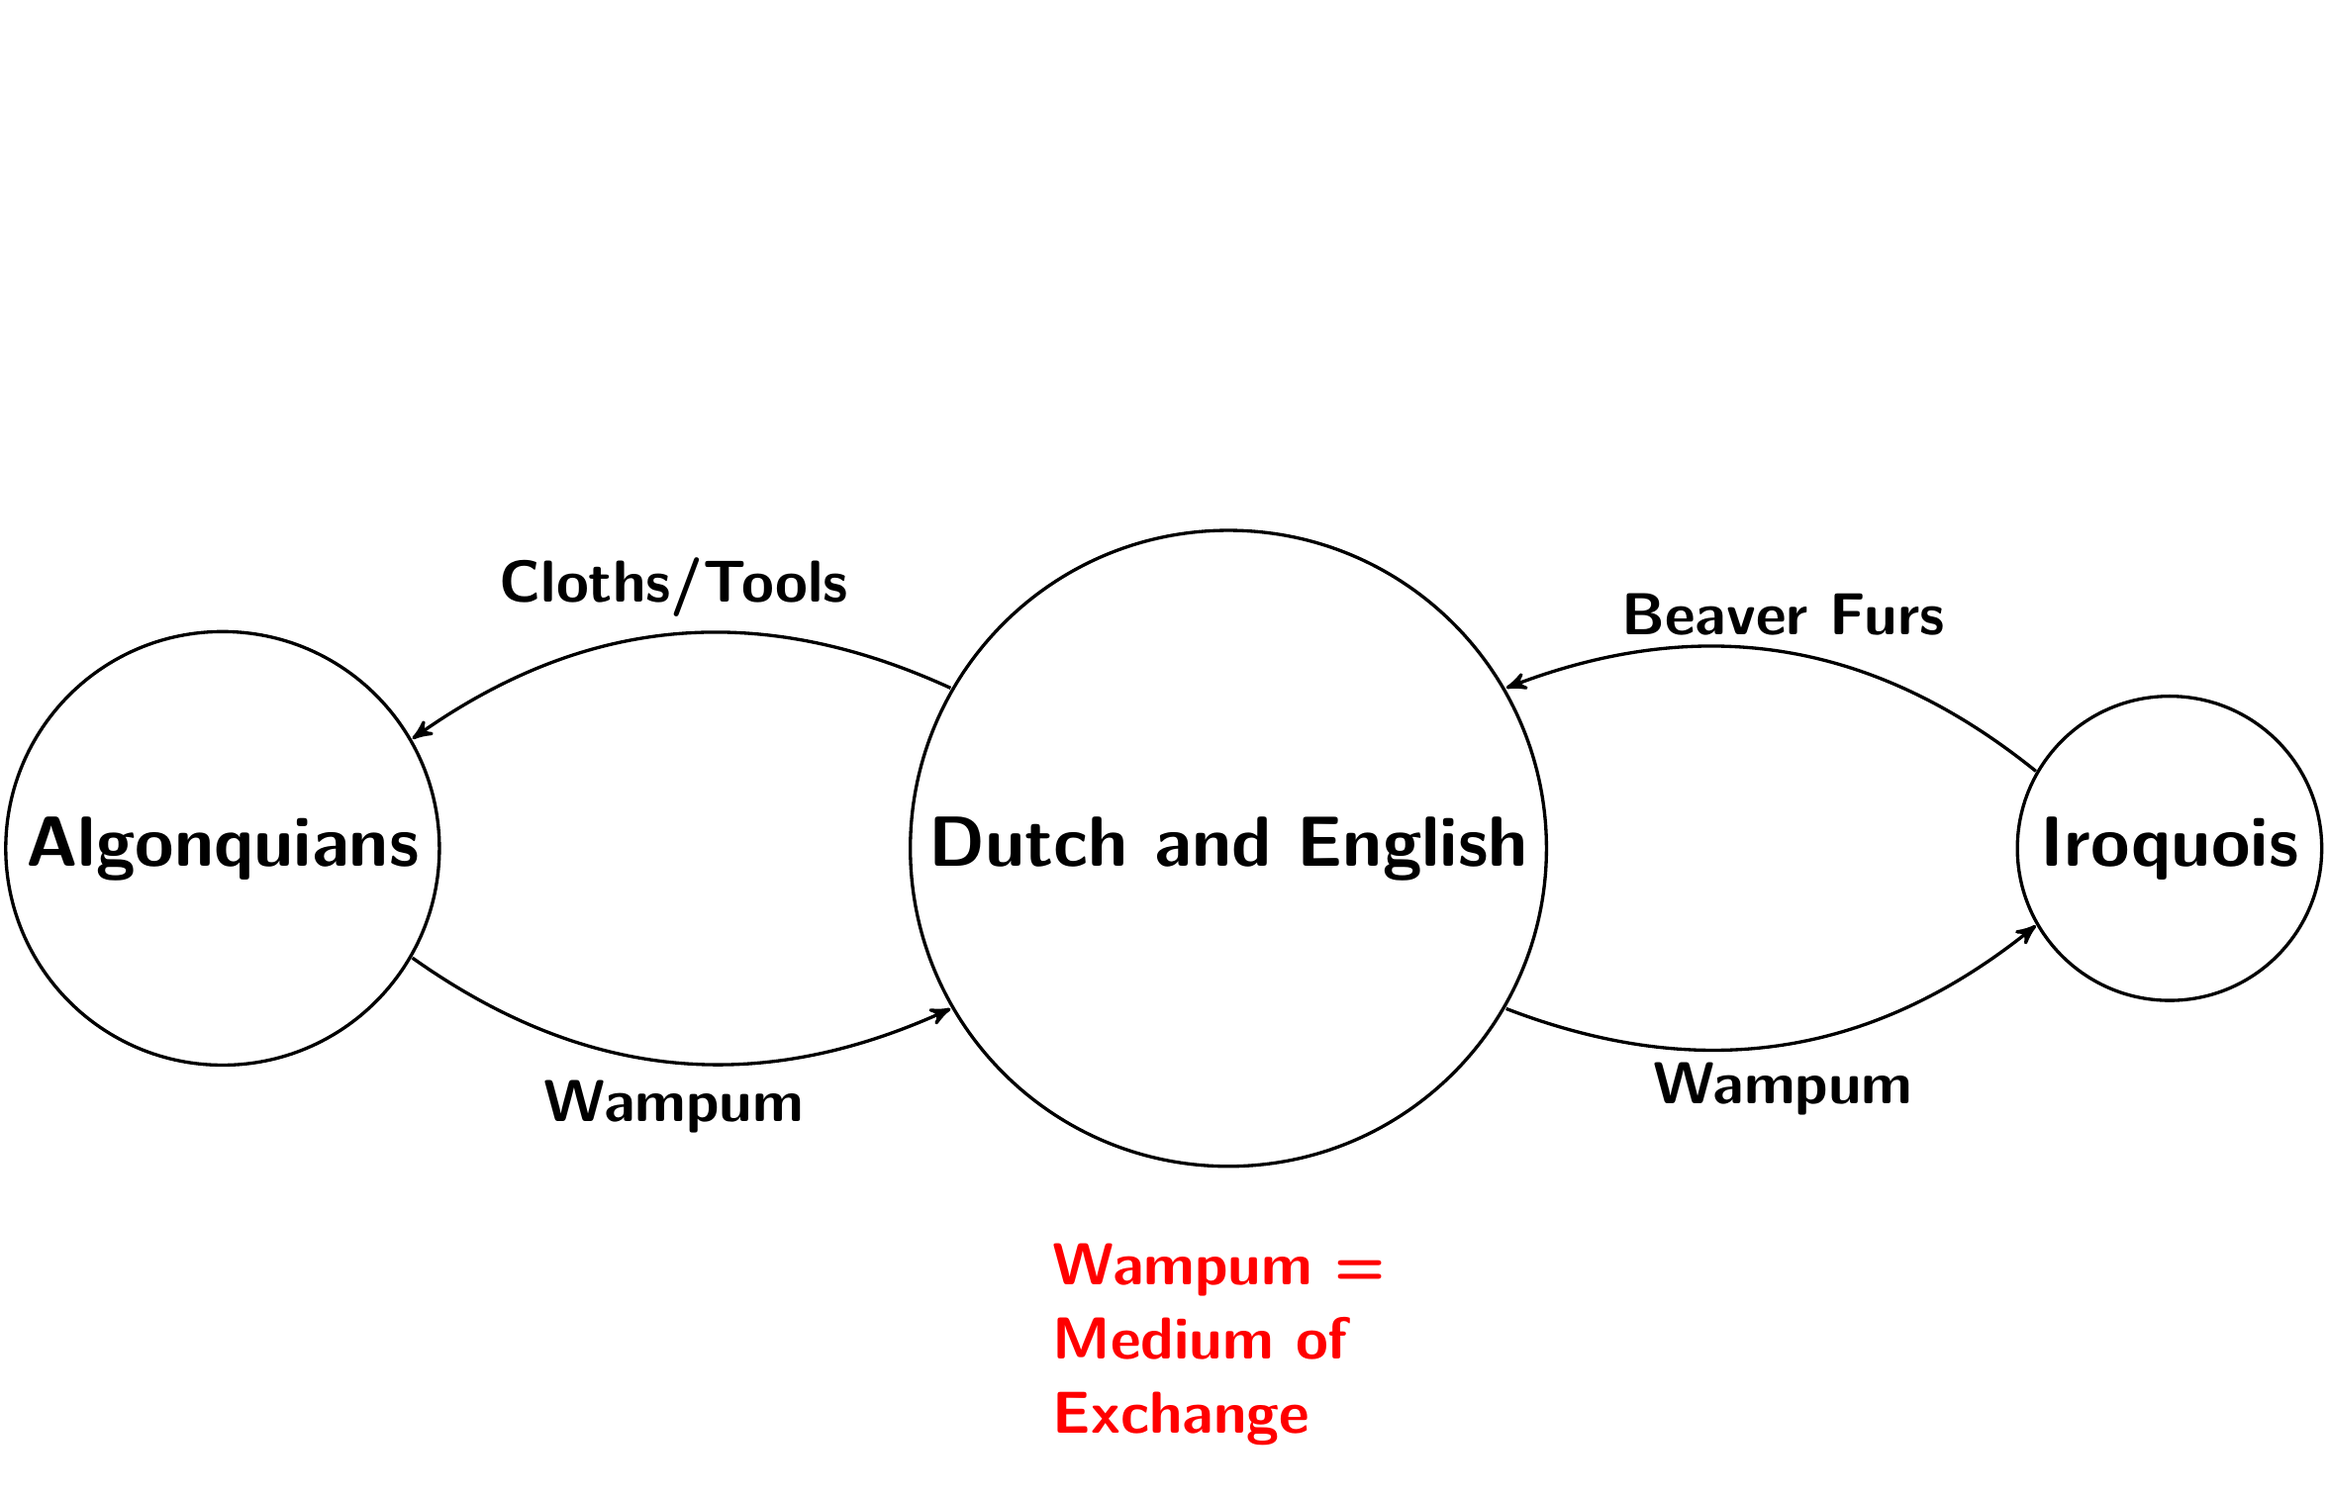
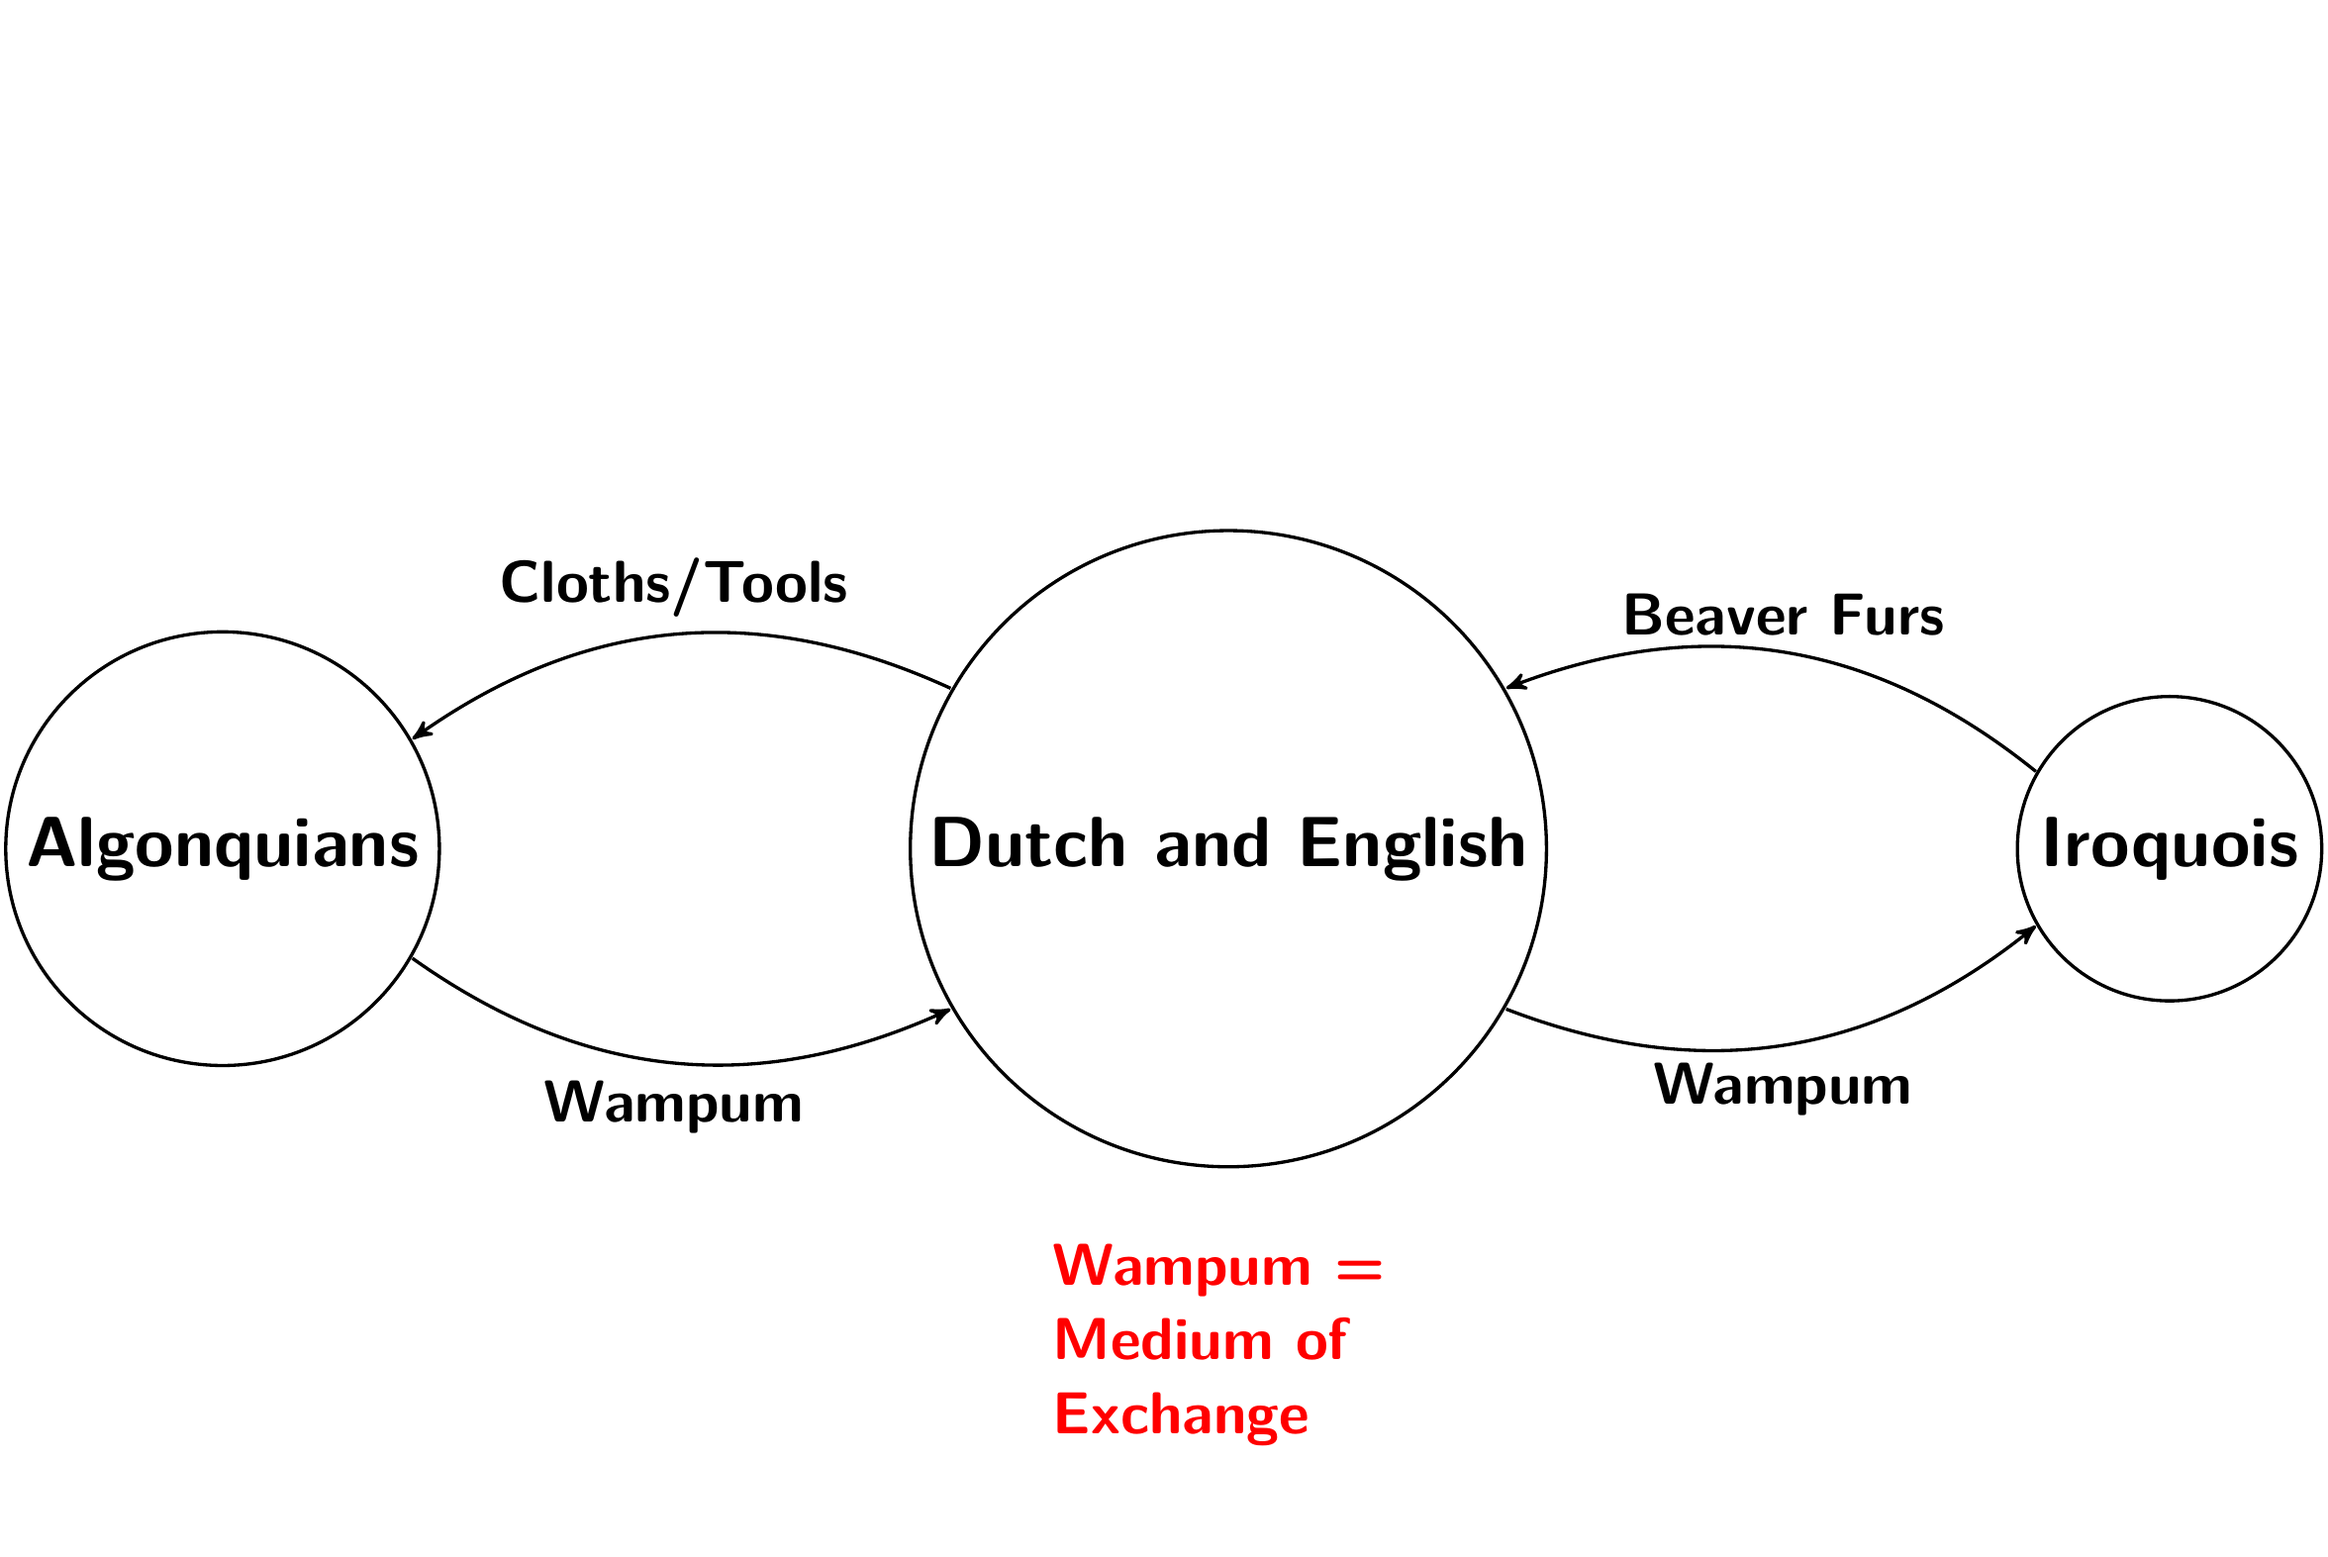
edit images

diff --git a/docs/slides/wampum2019.html b/docs/slides/wampum2019.html
@@ -134,7 +134,7 @@ Medium of Exchange in Fur Trade
 - Near perfect example of Menger, Kiyotaki and Wright (1989)
 
 ---
-&lt;img src="https://briancalbrecht.github.io/docs/slides/images/wampum/tikz_A.png" width="100%" align="middle" /&gt;
+&lt;img src="https://briancalbrecht.github.io/docs/slides/images/wampum/tikz_A.png" height="100%" align="middle" /&gt;
 
 
 ---

diff --git a/docs/slides/tikz_charts/wampum.tex b/docs/slides/tikz_charts/wampum.tex
@@ -90,7 +90,7 @@
 	\node[main node] (2) [left= of 1] {Algonquians};
 	\node[main node] (3) [right= of 1] {Iroquois};
 	\node[draw=none] (4) [above=4.2 cm of 1] {};
-	\node[draw=none] (5) [below=2.5cm of 1] {};
+	\node[draw=none] (5) [below=3cm of 1] {};
 	\node[draw=none] (6) [below=.5cm of 1,font=\sffamily\large\bfseries,text width=3cm, color=red] {Wampum = Medium of Exchange};
 
 %	
@@ -111,7 +111,7 @@
 	\node[main node] (2) [left= of 1] {Algonquians};
 	\node[main node] (3) [right= of 1] {Iroquois};
 	\node[draw=none] (4) [above=4.2 cm of 1] {};
-	\node[draw=none] (5) [below=2.5cm of 1] {};
+	\node[draw=none] (5) [below=3cm of 1] {};
 	
 	\path[every node/.style={font=\sffamily\small}]
 	(2) edge[bend right] node [below,font=\sffamily\large\bfseries] {Wampum} (1)
